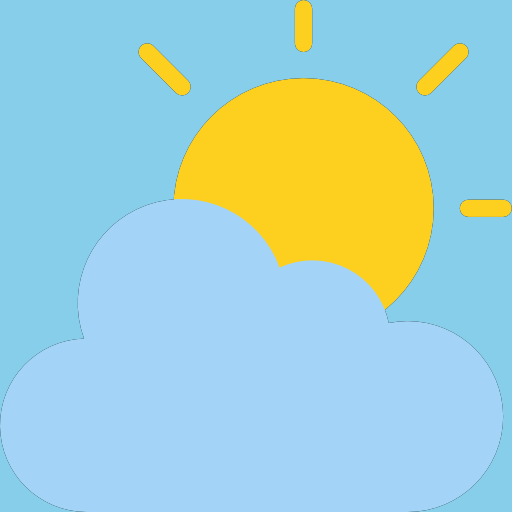
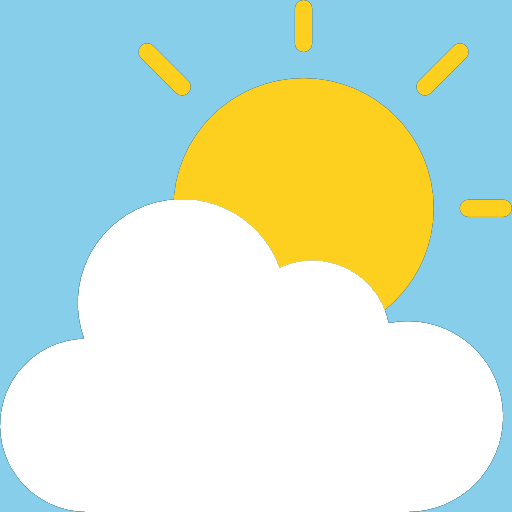
Make cloud white for better contrast on sky background
- Change cloud color from light blue to white
- Keeps sun and rays yellow
- Better visibility on sky blue background

🤖 Generated with [Claude Code](https://claude.com/claude-code)

diff --git a/internal/web/templates/base.html b/internal/web/templates/base.html
@@ -9,8 +9,8 @@
     <link rel="icon" type="image/png" href="/static/favicon.png">
 
     <!-- PWA / Add to Home Screen -->
-    <link rel="manifest" href="/static/manifest.json?v=3">
-    <link rel="apple-touch-icon" href="/static/icon-180.png?v=3">
+    <link rel="manifest" href="/static/manifest.json?v=4">
+    <link rel="apple-touch-icon" href="/static/icon-180.png?v=4">
     <meta name="theme-color" content="#3b82f6">
     <meta name="apple-mobile-web-app-capable" content="yes">
     <meta name="apple-mobile-web-app-status-bar-style" content="default">
